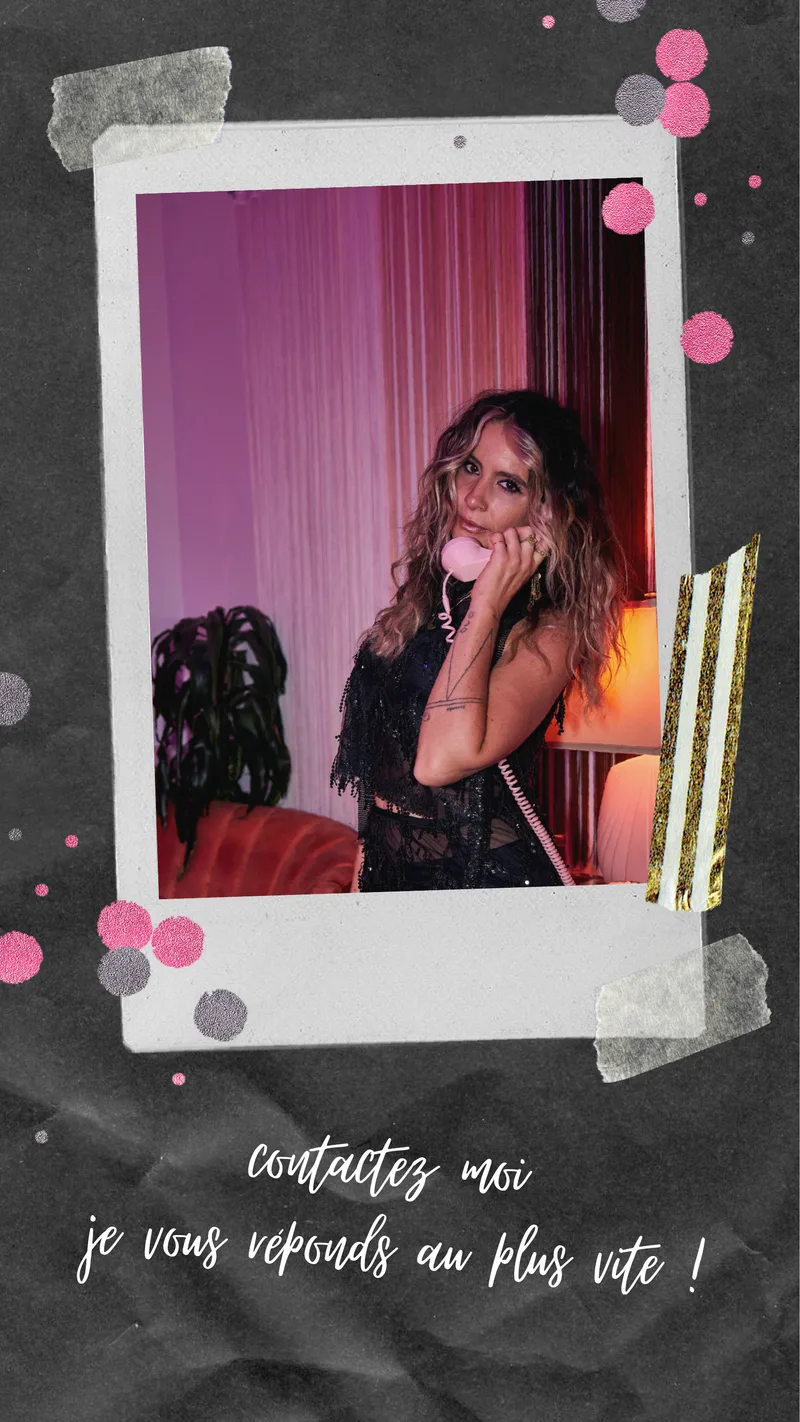
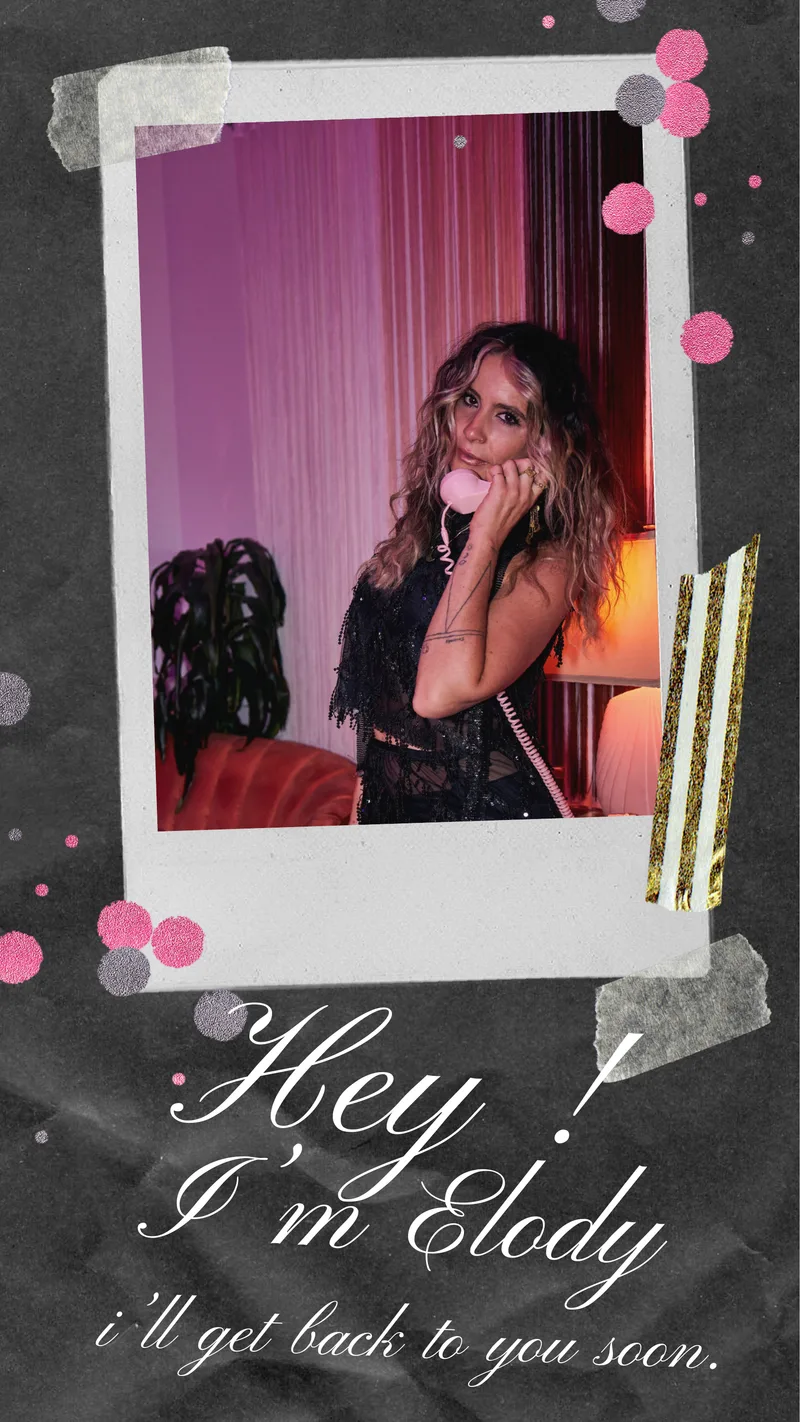
Elody Bliss : nouvelle photo Hey I m Elody en haut de la page Contact

diff --git a/clients/elody-bliss/contact.html b/clients/elody-bliss/contact.html
@@ -542,7 +542,7 @@ html body .cta-band p,html body footer p,html body footer li,html body footer a{
 <p data-i18n="ct_intro">Contact me to talk about your theme, your wishes and book your date at my private studio in Marseille. I would be delighted to accompany you for the most beautiful day of your life. Feel free to send me a text or a WhatsApp with your request.</p>
 </div>
 <div class="contact-hero-img galerie-clic" data-aos="fade-up" data-aos-delay="150">
-<img src="images/contact-polaroid.webp" alt="Elody Bliss au telephone, contactez-moi, je vous reponds au plus vite" width="800" height="1422" loading="eager" fetchpriority="high" decoding="async" onclick="openLightbox(this)">
+<img src="images/contact-polaroid.webp" alt="Hey, I am Elody, I will get back to you soon" width="800" height="1422" loading="eager" fetchpriority="high" decoding="async" onclick="openLightbox(this)">
 </div>
 </div>
 </div>
